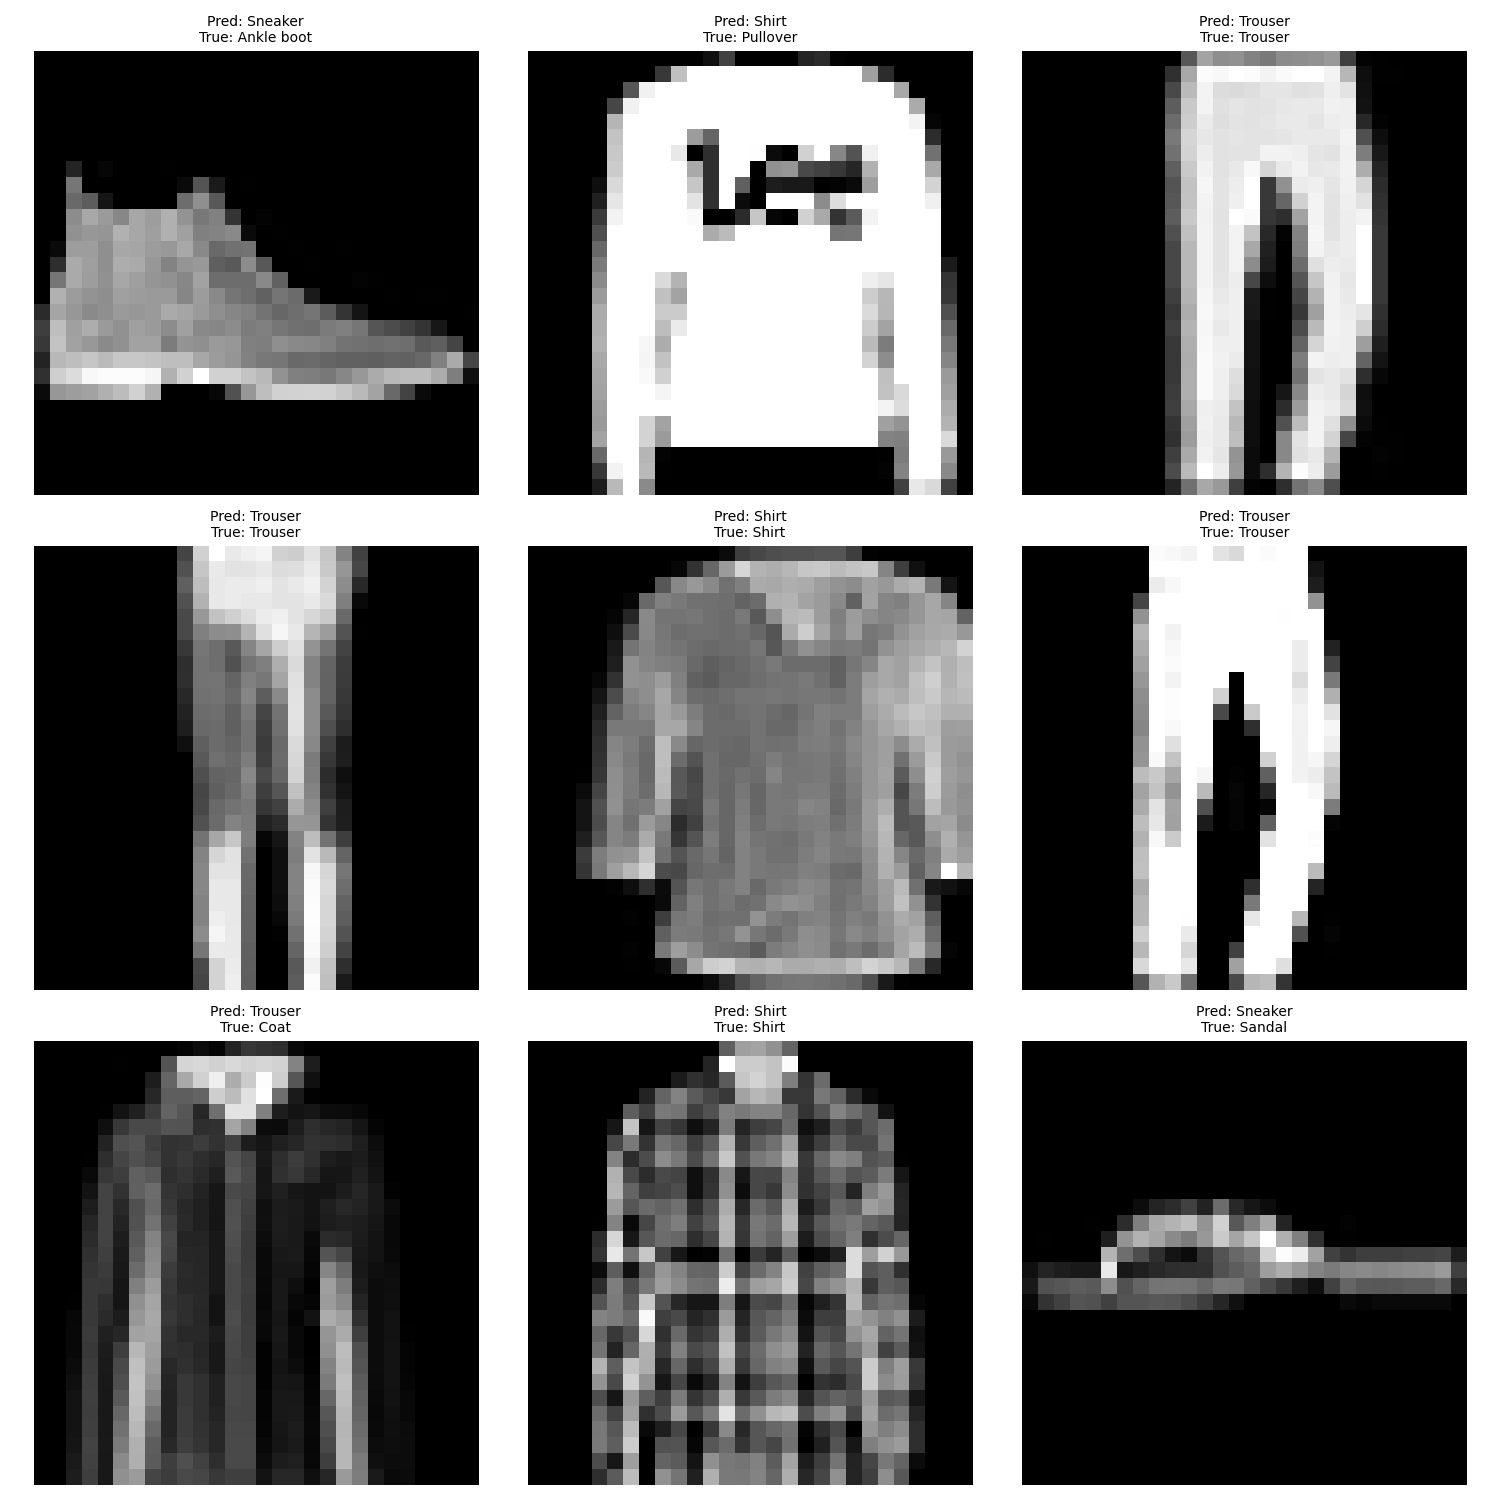
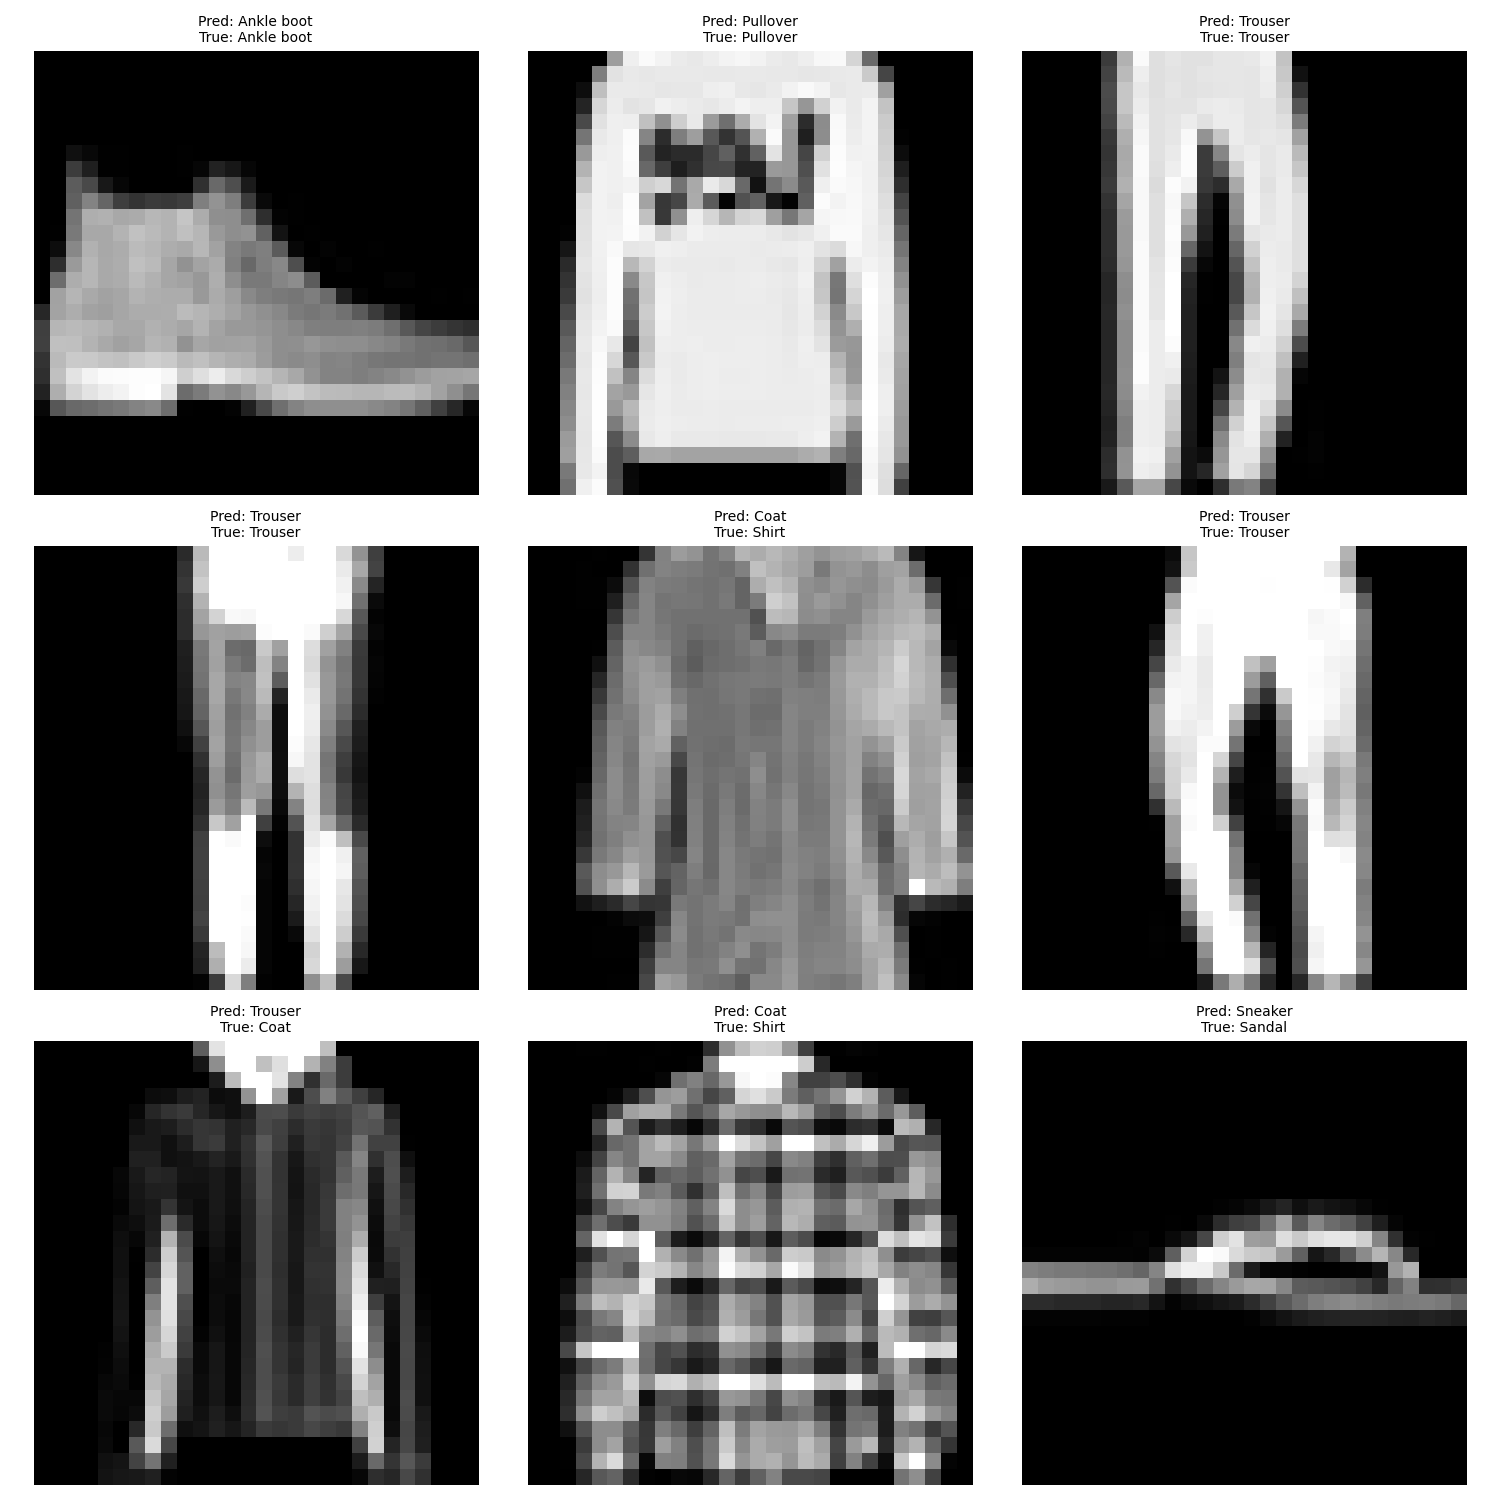
改正损失函数，并实现图像分类任务

diff --git a/train.py b/train.py
@@ -16,20 +16,19 @@ def train(model, dataloader, optimizer, device, num_epochs, save_path):
         model.train()
         total_loss = 0
         dataloader_tqdm = tqdm(dataloader, desc=f"Epoch {epoch+1}/{num_epochs}")
-        for batch_idx, (original_images, input_ids, attention_mask, labels) in enumerate(dataloader_tqdm):
-            original_images = original_images.to(device)
+        for batch_idx, (images, input_ids, attention_mask, labels) in enumerate(dataloader_tqdm):
+            images = images.to(device)
             input_ids = input_ids.to(device)
             attention_mask = attention_mask.to(device)
             labels = labels.to(device)
             optimizer.zero_grad()
             
-            classification_output, image_feature_vector, text_feature_vector, image_cls, text_cls = model(original_images, input_ids, attention_mask)
+            image_feature_vector, text_feature_vector, image_cls, text_cls = model(images, input_ids, attention_mask)
 
-            contrastive_loss = info_nce_loss(image_feature_vector, text_feature_vector, labels)
+            contrastive_loss = info_nce_loss(image_feature_vector, text_feature_vector)
             image_cls_loss = criterion(image_cls, labels)
             text_cls_loss = criterion(text_cls, labels)
-            classification_loss = criterion(classification_output, labels)
-            loss =  contrastive_loss + image_cls_loss + text_cls_loss + classification_loss
+            loss =  contrastive_loss + image_cls_loss + text_cls_loss 
 
             loss.backward()
             optimizer.step()
@@ -39,20 +38,17 @@ def train(model, dataloader, optimizer, device, num_epochs, save_path):
             # 更新进度条描述
             dataloader_tqdm.set_postfix({
                 'Loss': loss.item(),
-                # 'Contrastive Loss': contrastive_loss.item(),
-                # 'Classification Loss': classification_loss.item(),
+                'Contrastive Loss': contrastive_loss.item(),
                 'Image Classification Loss': image_cls_loss.item(),
                 'Text Classification Loss': text_cls_loss.item()
             })
 
         avg_loss = total_loss / len(dataloader)
         avg_contrastive_loss = contrastive_loss.item() / len(dataloader)
-        avg_classification_loss = classification_loss.item() / len(dataloader)
         avg_image_cls_loss = image_cls_loss.item() / len(dataloader)
         avg_text_cls_loss = text_cls_loss.item() / len(dataloader)
         print(f"Epoch {epoch+1}/{num_epochs}, Average Loss: {avg_loss:.4f}, "
               f"Contrastive Loss: {avg_contrastive_loss:.4f}, "
-              f"Classification Loss: {avg_classification_loss:.4f}, "
               f"Image Classification Loss: {avg_image_cls_loss:.4f}, "
               f"Text Classification Loss: {avg_text_cls_loss:.4f}")
 

diff --git a/test.py b/test.py
@@ -22,7 +22,7 @@ def test(model, dataloader, device):
             attention_mask = attention_mask.to(device)
             labels = labels.to(device)
             
-            classification_output, image_feature_vector, text_feature_vector, image_cls, text_cls = model(images, input_ids, attention_mask)
+            image_feature_vector, text_feature_vector, image_cls, text_cls = model(images, input_ids, attention_mask)
             _, preds = torch.max(image_cls, 1)
             
             all_preds.extend(preds.cpu().tolist())
@@ -31,7 +31,7 @@ def test(model, dataloader, device):
     accuracy = sum(p == l for p, l in zip(all_preds, all_labels)) / len(all_labels)
     
     print("\n预测结果:")
-    print_output_distribution(classification_output)
+    print_output_distribution(image_cls)
     for pred, label in zip(all_preds[:10], all_labels[:10]):  # 只打印前10个结果
         pred_text = label_to_text[pred]
         true_text = label_to_text[label]
@@ -48,7 +48,7 @@ def visualize_predictions(model, dataloader, device):
     attention_mask = attention_mask.to(device)
     
     with torch.no_grad():
-        classification_output, image_feature_vector, text_feature_vector, image_cls, text_cls = model(images, input_ids, attention_mask)
+        image_feature_vector, text_feature_vector, image_cls, text_cls = model(images, input_ids, attention_mask)
         _, preds = torch.max(image_cls, 1)
     
     fig, axes = plt.subplots(3, 3, figsize=(15, 15))
@@ -74,4 +74,27 @@ def print_output_distribution(outputs):
     avg_probs = probs.mean(dim=0)
     for i, prob in enumerate(avg_probs):
         print(f"Class {i}: {prob.item():.4f}")
+
+import torch
+from model import DualTowerModel
+from data_loader import get_data_loaders
+
+if __name__ == "__main__":
+    # 设置设备
+    device = torch.device("cuda" if torch.cuda.is_available() else "cpu")
+
+    # 加载模型
+    model = DualTowerModel(vocab_size=30522).to(device)
+    checkpoint = torch.load('model.pth', map_location=device)
+    model.load_state_dict(checkpoint['model_state_dict'])
+    
+    # 获取测试数据加载器
+    _, test_loader = get_data_loaders(batch_size=64)
+    
+    # 测试模型性能
+    test_accuracy = test(model, test_loader, device)
+    print(f"测试集准确率: {test_accuracy:.4f}")
+    
+    # 可视化预测结果
+    visualize_predictions(model, test_loader, device)
 

diff --git a/main.py b/main.py
@@ -3,39 +3,38 @@ import torch.optim as optim
 from torch.utils.data import DataLoader
 from model import DualTowerModel
 from train import train
-from test import test, visualize_predictions  # 导入可视化函数
+from test import test, visualize_predictions
 from data_loader import get_data_loaders
-import argparse
-
 
 def main():
-    parser = argparse.ArgumentParser(description="Train and test DualTowerModel")
-    parser.add_argument('--epochs', type=int, default=5, help='Number of epochs to train')
-    parser.add_argument('--batch_size', type=int, default=64, help='Batch size for training')
-    parser.add_argument('--lr', type=float, default=0.001, help='Learning rate')
-    parser.add_argument('--vocab_size', type=int, default=30522, help='Vocabulary size for text model')
-    parser.add_argument('--save_path', type=str, default='model.pth', help='Path to save the trained model')
-    parser.add_argument('--visualize', action='store_true', help='Visualize predictions after testing')  # 新增参数
-    args = parser.parse_args()
+    # 设置超参数
+    epochs = 5
+    batch_size = 64
+    lr = 0.001
+    vocab_size = 30522
+    save_path = 'model.pth'
+    visualize = True  # 是否可视化预测结果
 
     device = torch.device("cuda" if torch.cuda.is_available() else "cpu")
 
     # 初始化模型
-    model = DualTowerModel(vocab_size=args.vocab_size).to(device)
+    model = DualTowerModel(vocab_size=vocab_size).to(device)
 
     # 定义优化器
-    optimizer = optim.Adam(model.parameters(), lr=args.lr)
+    optimizer = optim.Adam(model.parameters(), lr=lr)
 
     # 加载数据集
-    train_loader, test_loader = get_data_loaders(args.batch_size)
+    train_loader, test_loader = get_data_loaders(batch_size)
 
-    train(model, train_loader, optimizer, device, args.epochs, args.save_path) 
+    # 训练模型
+    train(model, train_loader, optimizer, device, epochs, save_path) 
 
     # 测试模型
     test(model, test_loader, device)
 
     # 可视化预测结果
-    visualize_predictions(model, test_loader, device)
+    if visualize:
+        visualize_predictions(model, test_loader, device)
 
 if __name__ == "__main__":
     main()

diff --git a/finetunnig.py b/finetunnig.py
@@ -1,0 +1,70 @@
+import torch
+import torch.nn as nn
+import torch.optim as optim
+import torchvision
+import torchvision.transforms as transforms
+from pretraining import SimpleCNN  # 确保这行正确导入 SimpleCNN
+
+# 数据预处理
+transform = transforms.Compose([
+    transforms.ToTensor(),
+    transforms.Normalize((0.5,), (0.5,))
+])
+
+# 加载Fashion-MNIST数据集
+trainset = torchvision.datasets.FashionMNIST(root='./data', train=True, download=True, transform=transform)
+trainloader = torch.utils.data.DataLoader(trainset, batch_size=64, shuffle=True)
+
+testset = torchvision.datasets.FashionMNIST(root='./data', train=False, download=True, transform=transform)
+testloader = torch.utils.data.DataLoader(testset, batch_size=64, shuffle=False)
+
+# 定义分类器
+class Classifier(nn.Module):
+    def __init__(self):
+        super(Classifier, self).__init__()
+        self.fc1 = nn.Linear(784, 128)
+        self.fc2 = nn.Linear(128, 10)
+
+    def forward(self, x):
+        with torch.no_grad():
+            visual_features = self.fc1(x)
+            logits = self.fc2(visual_features)
+        return logits
+
+
+
+# 初始化分类器、损失函数和优化器
+model = Classifier().cuda()
+criterion = nn.CrossEntropyLoss().cuda()
+optimizer = optim.Adam(model.parameters(), lr=0.001)
+
+# 微调模型
+for epoch in range(10):
+    model.train()
+    running_loss = 0.0
+    for images, labels in trainloader:
+        images, labels = images.cuda(), labels.cuda()
+
+        optimizer.zero_grad()
+        logits = model(images)
+        loss = criterion(logits, labels)
+        loss.backward()
+        optimizer.step()
+
+        running_loss += loss.item()
+
+    print(f'Epoch [{epoch + 1}/10], Loss: {running_loss / len(trainloader)}')
+
+# 测试模型
+model.eval()
+correct = 0
+total = 0
+with torch.no_grad():
+    for images, labels in testloader:
+        images, labels = images.cuda(), labels.cuda()
+        logits = model(images)
+        _, predicted = torch.max(logits.data, 1)
+        total += labels.size(0)
+        correct += (predicted == labels).sum().item()
+
+print(f'Accuracy of the model on the test images: {100 * correct / total}%')

diff --git a/losses.py b/losses.py
@@ -7,26 +7,33 @@ class InfoNCELoss(nn.Module):
         super(InfoNCELoss, self).__init__()
         self.temperature = temperature
 
-    def forward(self, visual_features, textual_features, labels):
-        # Normalize features
-        visual_features = F.normalize(visual_features, dim=1)
-        textual_features = F.normalize(textual_features, dim=1)
+    def forward(self, visual_features, textual_features):
 
-        # Compute similarity scores
-        similarity_matrix = torch.matmul(visual_features, textual_features.T)
+        # 创建标签矩阵[128,128]
+        labels = torch.cat([torch.arange(visual_features.shape[0]) for i in range(2)], dim=0)
+        labels = labels.unsqueeze(0) == labels.unsqueeze(1)
+        labels = labels.to(visual_features.device)
 
-        # Apply temperature
+        combined_features = torch.cat([visual_features, textual_features], dim=0)
+        # 归一化
+        combined_features = F.normalize(combined_features, dim=1)
+
+        # 计算相似度
+        similarity_matrix = torch.matmul(combined_features, combined_features.T)
         similarity_matrix = similarity_matrix / self.temperature
 
-        # Create labels
-        # labels = torch.arange(visual_features.size(0)).cuda()
+        # 创建掩码矩阵[128,128]
+        mask = torch.eye(labels.shape[0], dtype=torch.bool).to(similarity_matrix.device)
+        similarity_matrix = similarity_matrix[~mask].view(similarity_matrix.shape[0], -1)
+        labels = labels[~mask].view(labels.shape[0], -1)
 
-        # Calculate cross-entropy loss
-        loss_v2t = F.cross_entropy(similarity_matrix, labels)
-        loss_t2v = F.cross_entropy(similarity_matrix.T, labels)
+        positives = similarity_matrix[labels.bool()].view(labels.shape[0], -1)
 
-        # Combine the two losses
-        loss = (loss_v2t + loss_t2v) / 2.0
+        negatives = similarity_matrix[~labels.bool()].view(similarity_matrix.shape[0], -1)
 
+        logits = torch.cat([positives, negatives], dim=1)
+        labels = torch.zeros(logits.shape[0], dtype=torch.long).to(visual_features.device)
+
+        loss = F.cross_entropy(logits, labels)
         return loss
 

diff --git a/losses_one.py b/losses_one.py
@@ -1,0 +1,28 @@
+import torch
+import torch.nn.functional as F
+
+class InfoNCELoss(torch.nn.Module):
+    def __init__(self, temperature=0.07):
+        super(InfoNCELoss, self).__init__()
+        self.temperature = temperature
+
+    def forward(self, features):
+        # 特征归一化
+        features = F.normalize(features, dim=1)
+        
+        # 计算相似度矩阵
+        similarity_matrix = torch.matmul(features, features.T)
+        
+        # 应用温度缩放
+        similarity_matrix = similarity_matrix / self.temperature
+        
+        # 创建标签矩阵（对角线为1，其他为0）
+        labels = torch.eye(features.shape[0], device=features.device)
+        
+        # 计算损失
+        exp_sim = torch.exp(similarity_matrix)
+        log_prob = similarity_matrix - torch.log(exp_sim.sum(dim=1, keepdim=True))
+        
+        loss = (-log_prob * labels).sum(dim=1).mean()
+        
+        return loss

diff --git a/model.py b/model.py
@@ -24,4 +24,4 @@ class DualTowerModel(nn.Module):
         # 使用 classifier 层生成分类预测
         classification_output = self.classifier(cross_attention_output)
         
-        return  classification_output, image_feature_vector, text_feature_vector, image_cls, text_cls
+        return image_feature_vector, text_feature_vector, image_cls, text_cls
